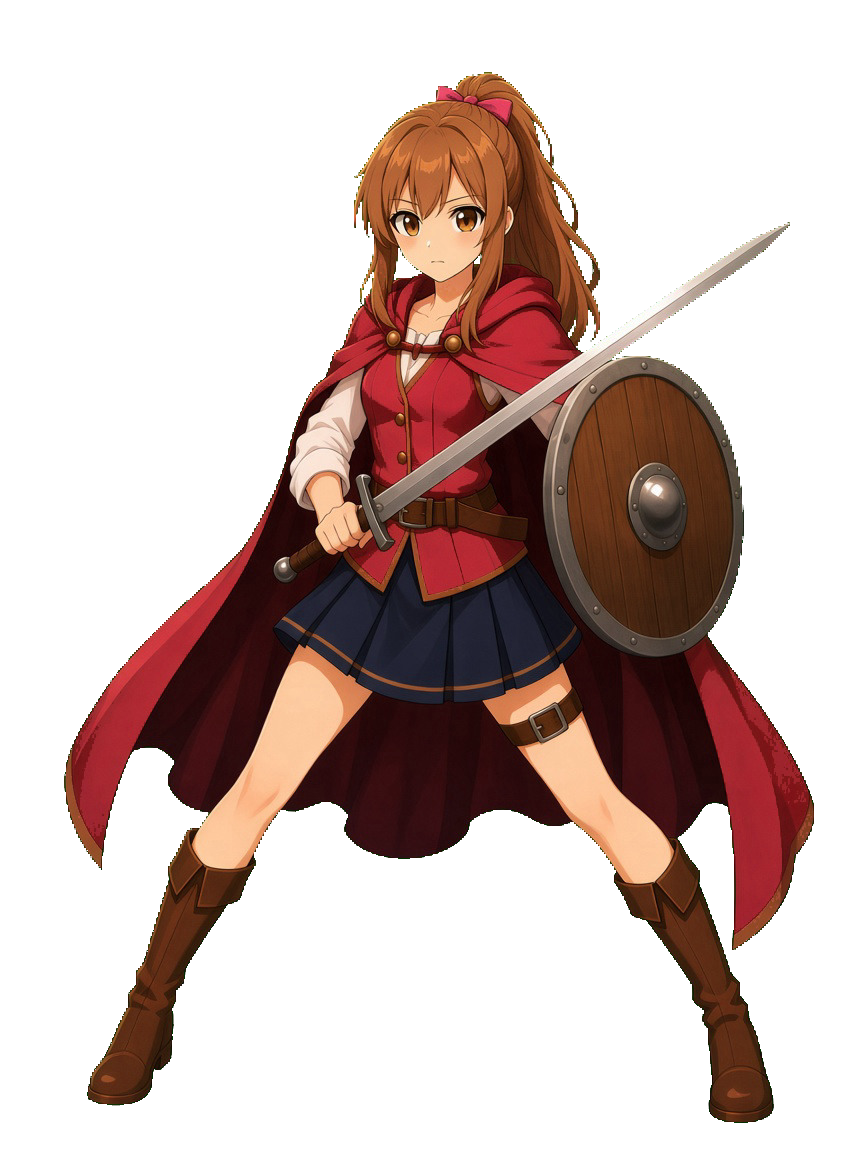
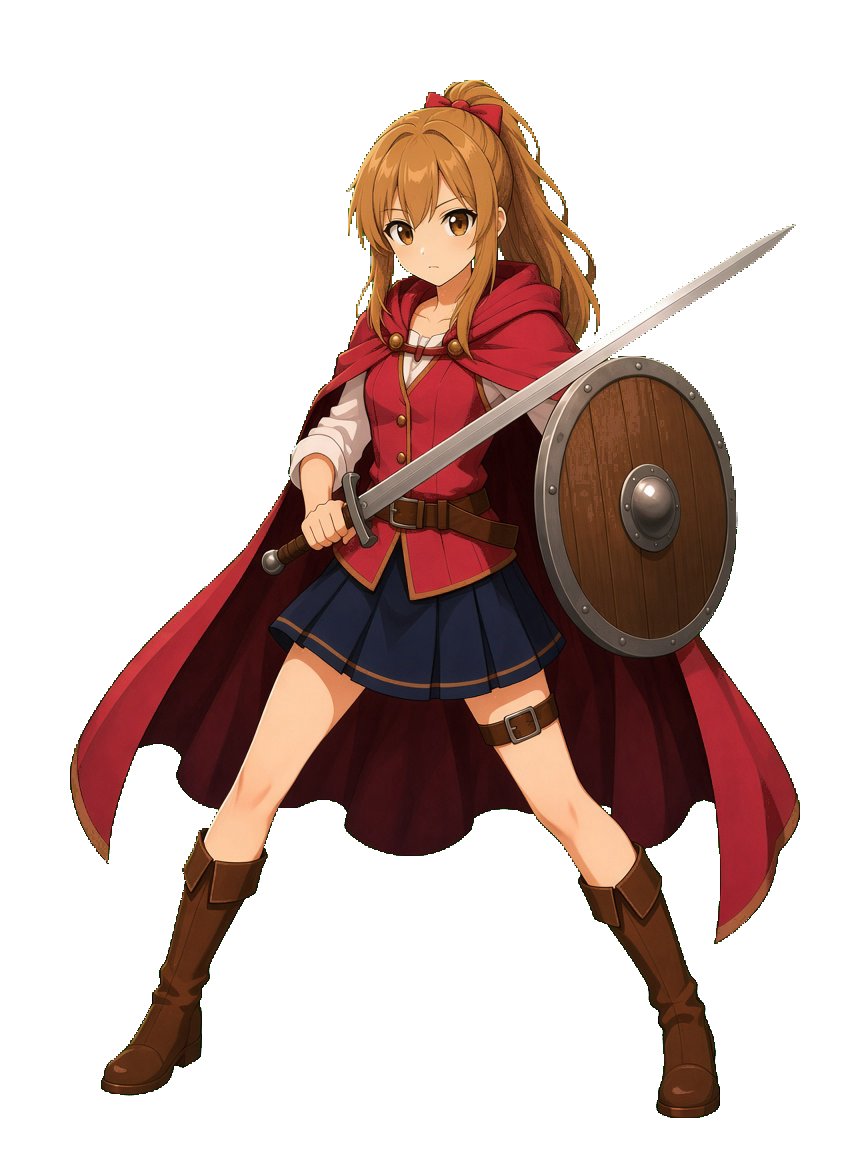
Restore the original battle stance while keeping the character-design colors.

diff --git a/index.html b/index.html
@@ -4469,7 +4469,7 @@
     let castShown = "";
     const CAST = [
       { name: "戦士", stand: "job-front.png?v=5", chibi: "job-warrior.png?v=9", action: "job-action.jpg?v=3", battle: "hero-shoulder.png?v=25", battleRatio: "864 / 1152", defeat: "warrior-defeat.png?v=3", victory: "warrior-victory.png?v=3" },
-      { name: "女の戦士", stand: "girl-front.png?v=10", chibi: "job-girl.png?v=5", action: "girl-action.jpg?v=3", battle: "girl-battle.png?v=16", battleRatio: "3 / 4", defeat: "girl-defeat.png?v=8", victory: "girl-victory.png?v=9" },
+      { name: "女の戦士", stand: "girl-front.png?v=10", chibi: "job-girl.png?v=5", action: "girl-action.jpg?v=3", battle: "girl-battle.png?v=17", battleRatio: "3 / 4", defeat: "girl-defeat.png?v=8", victory: "girl-victory.png?v=9" },
     ];
     let heroCast = "戦士";
     function heroItem() { return castByName(heroCast); }
@@ -7445,7 +7445,7 @@
             <h3>女の戦士</h3>
             <div class="ref-grid pose-grid">
               ${sheetFig("girl-front.png?v=10", "キャラデザ", "cut-ref")}
-              ${sheetFig("girl-battle.png?v=16", "戦闘", "cut-ref")}
+              ${sheetFig("girl-battle.png?v=17", "戦闘", "cut-ref")}
             </div>
             <div class="ref-grid">
               ${sheetFig("girl-defeat.png?v=8", "敗北", "land-ref", "wide-land")}
